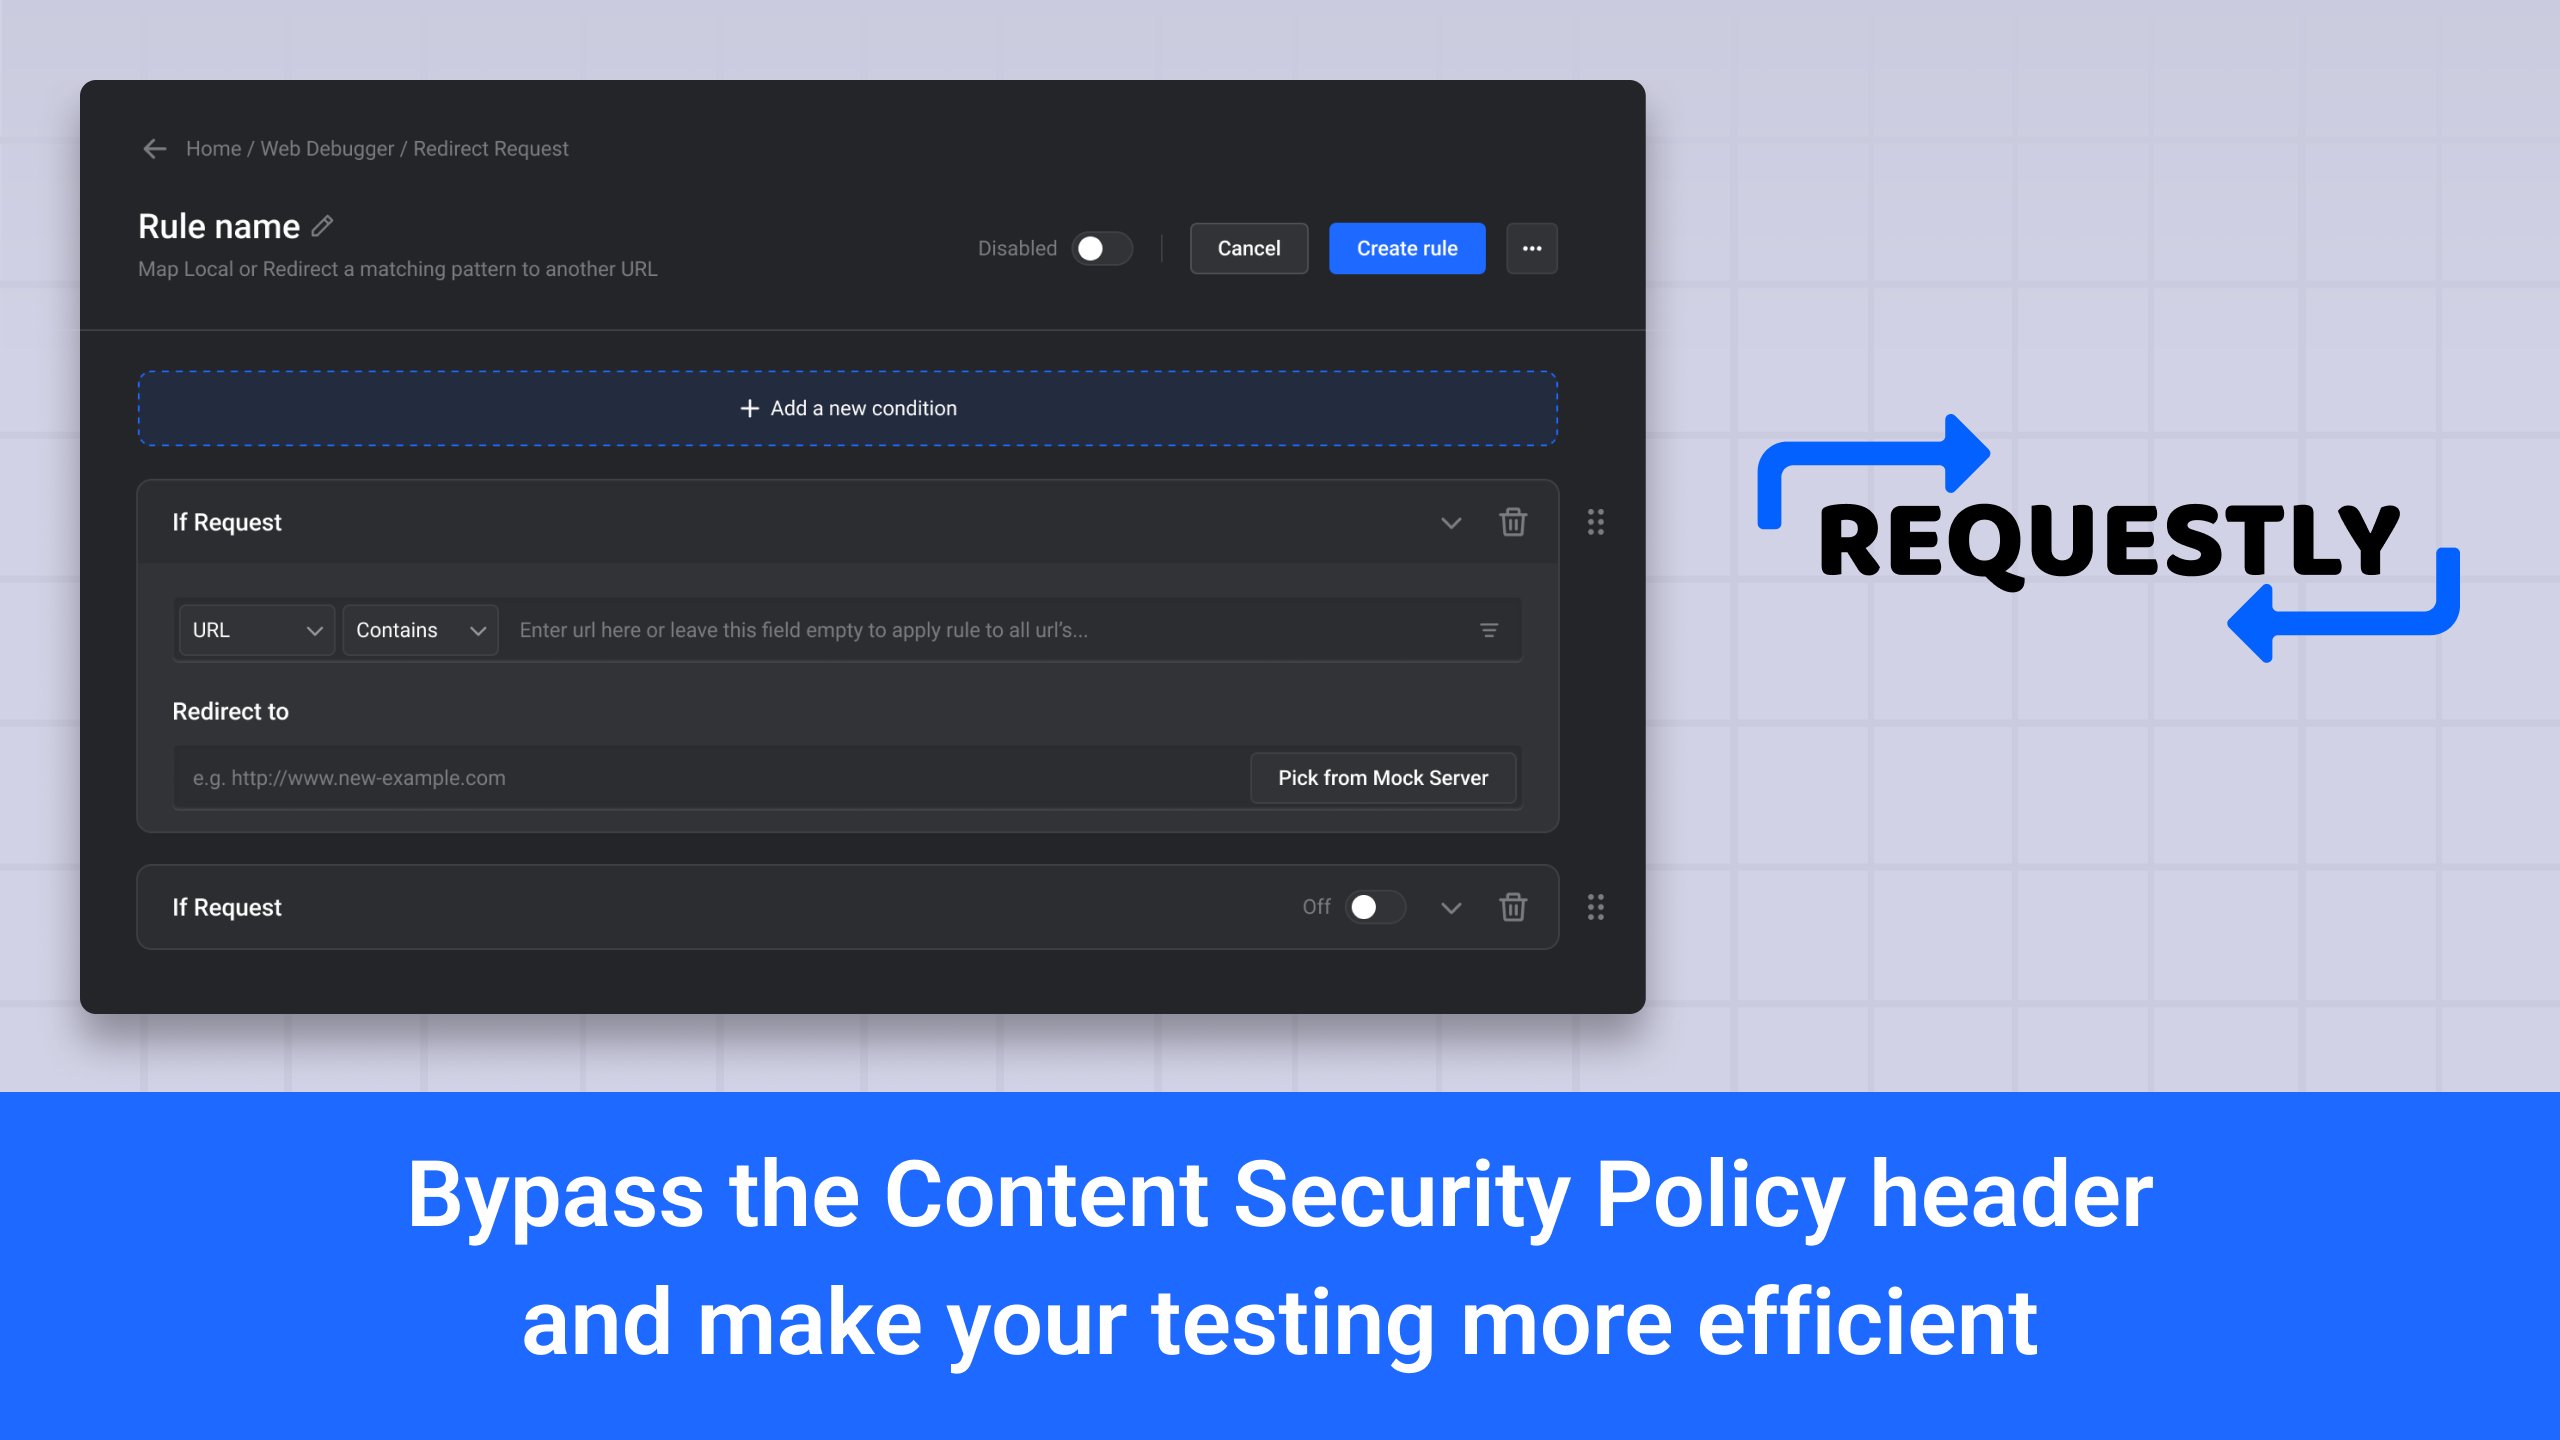
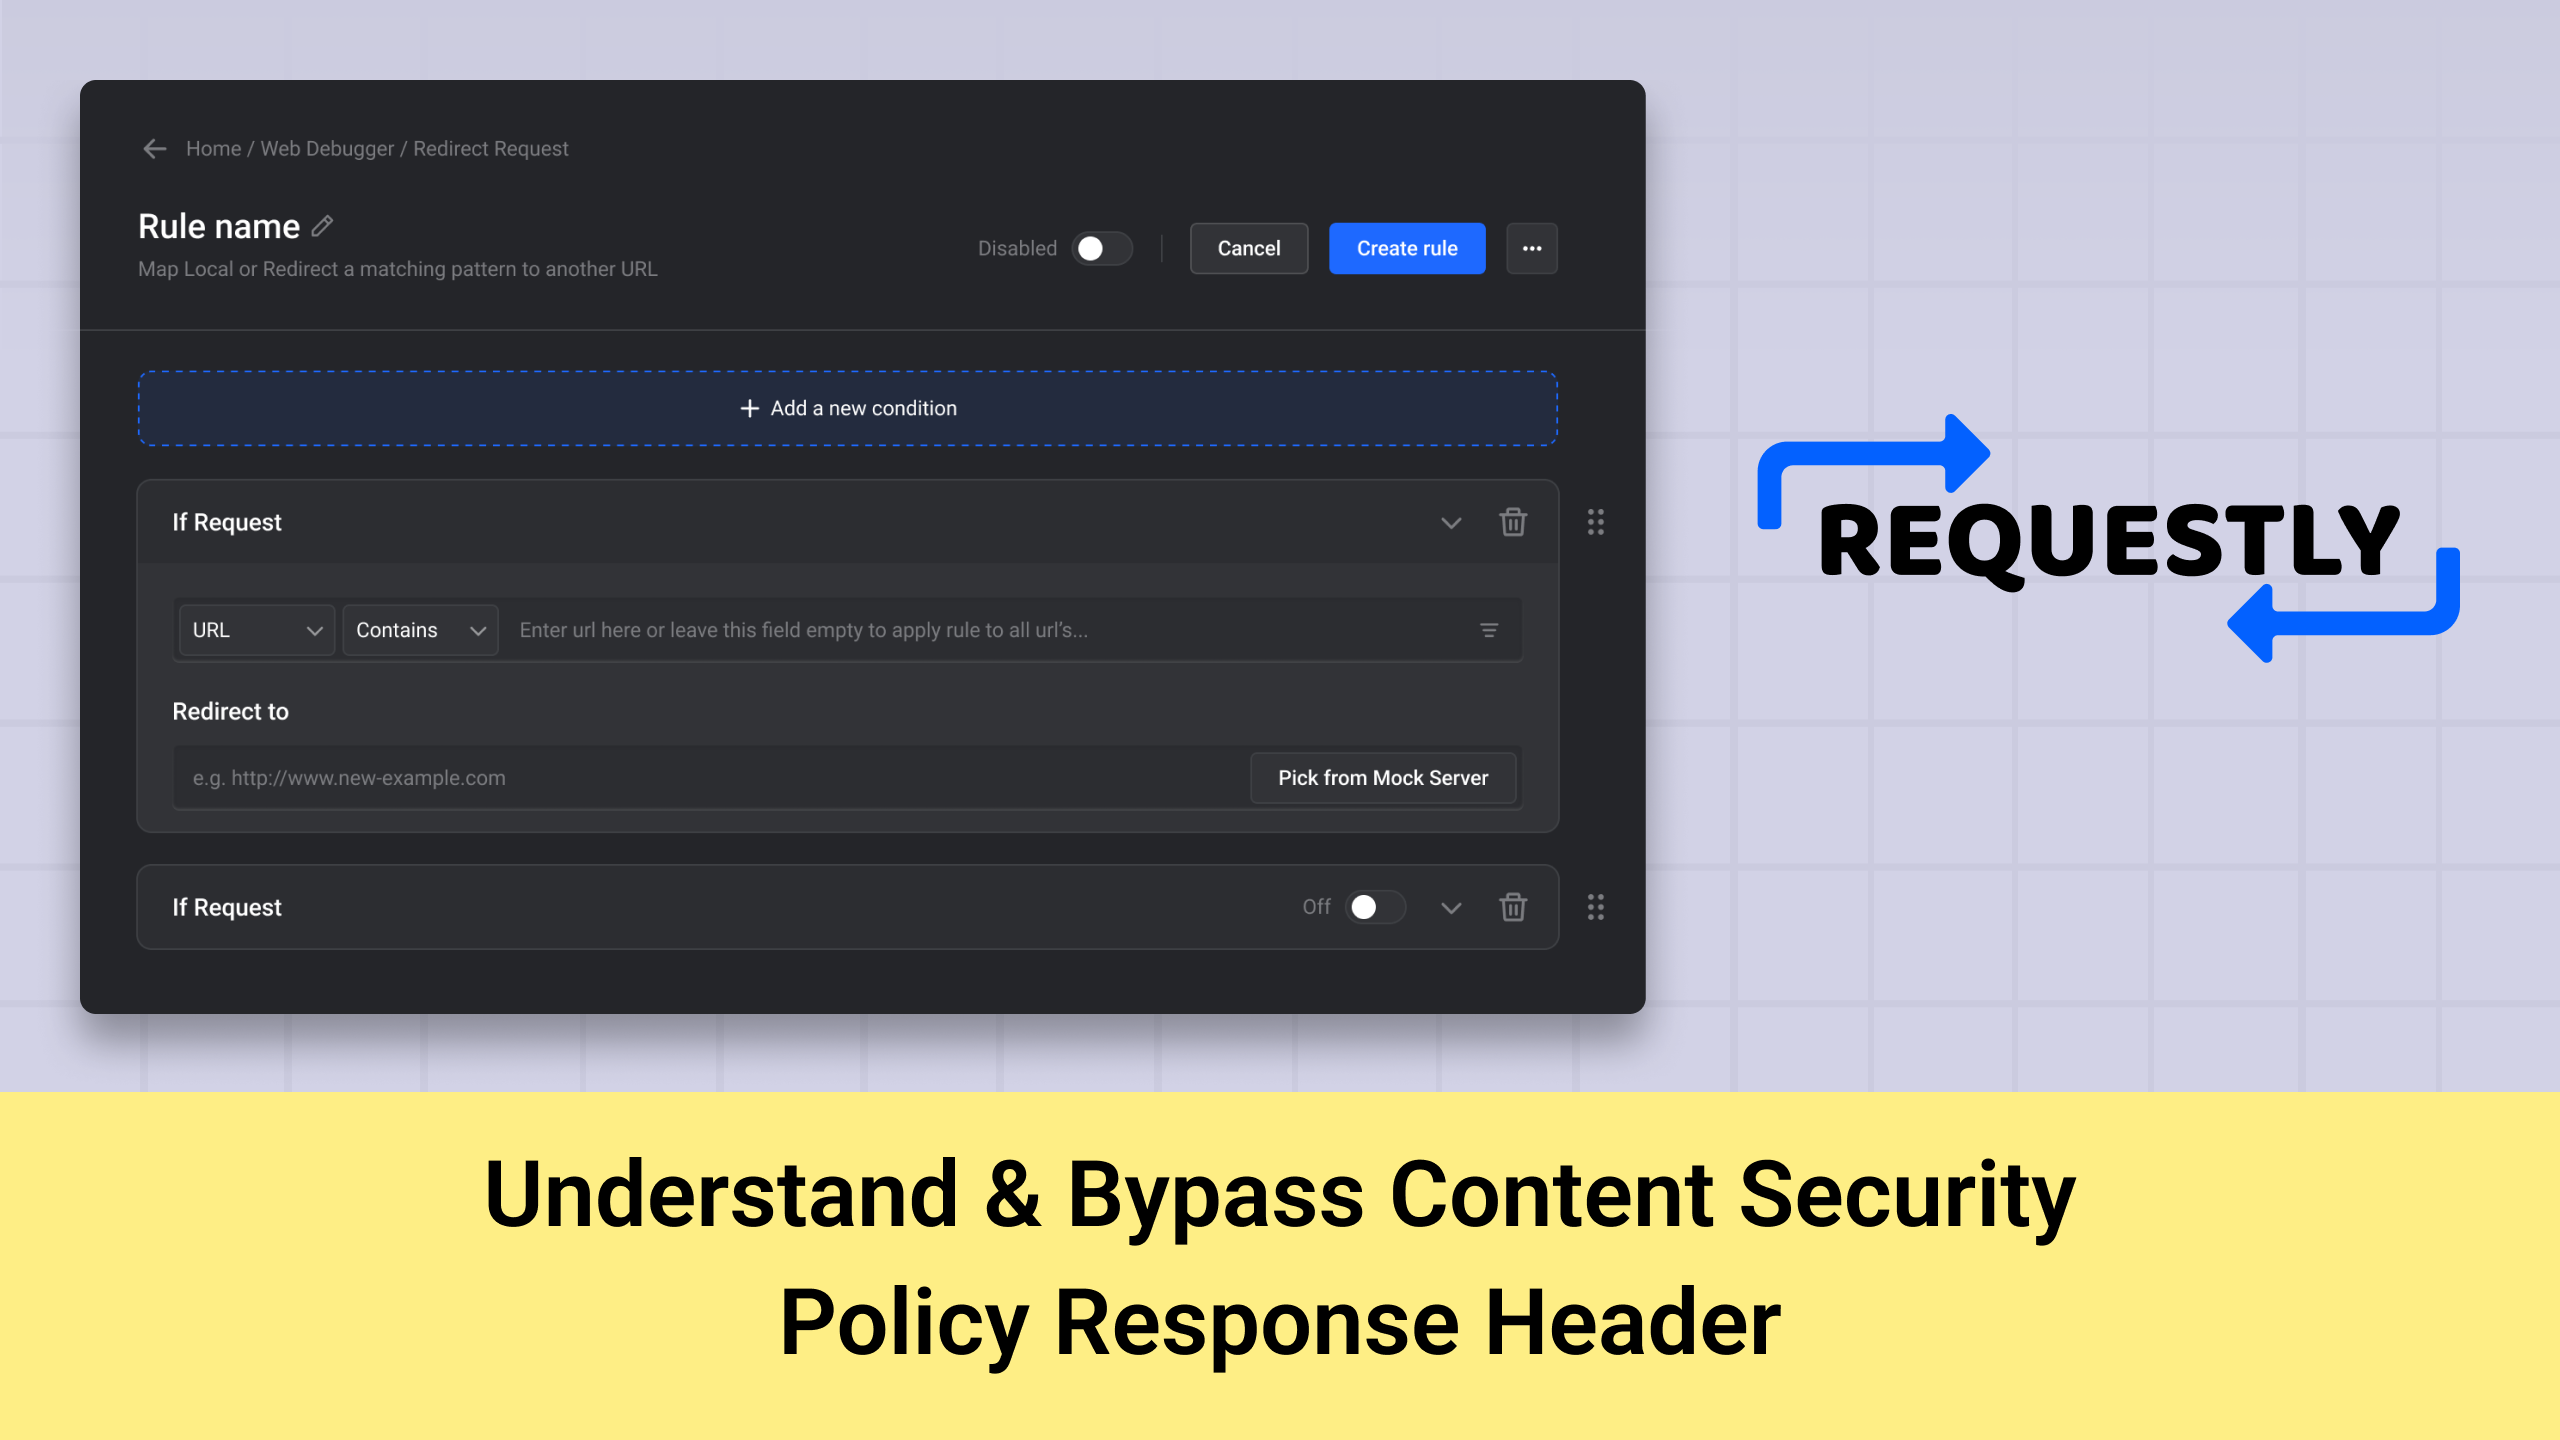
Title updated- CSP blogpost

Changed region(s): [[0.0, 0.75, 1.0, 1.0]]

diff --git a/blog-posts/learn-and-bypass-content-security-policy-using-http-response-header.md b/blog-posts/learn-and-bypass-content-security-policy-using-http-response-header.md
@@ -1,9 +1,9 @@
 ---
-title: "Learn & bypass Content Security Policy using HTTP Response Header"
+title: "Learn & bypass Content Security Policy HTTP Response Header"
 date: "2022-11-04T02:53:17+05:30"
 coverImage: "/assets/blog-images/blog-bypass-csp.png"
 status: publish
-permalink: learn-and-bypass-content-security-policy-using-http-response-header
+permalink: learn-and-bypass-content-security-policy-http-response-header
 author: "Sachin Jain"
 excerpt: "Bypass CSP header to speed up your testing"
 type: post
